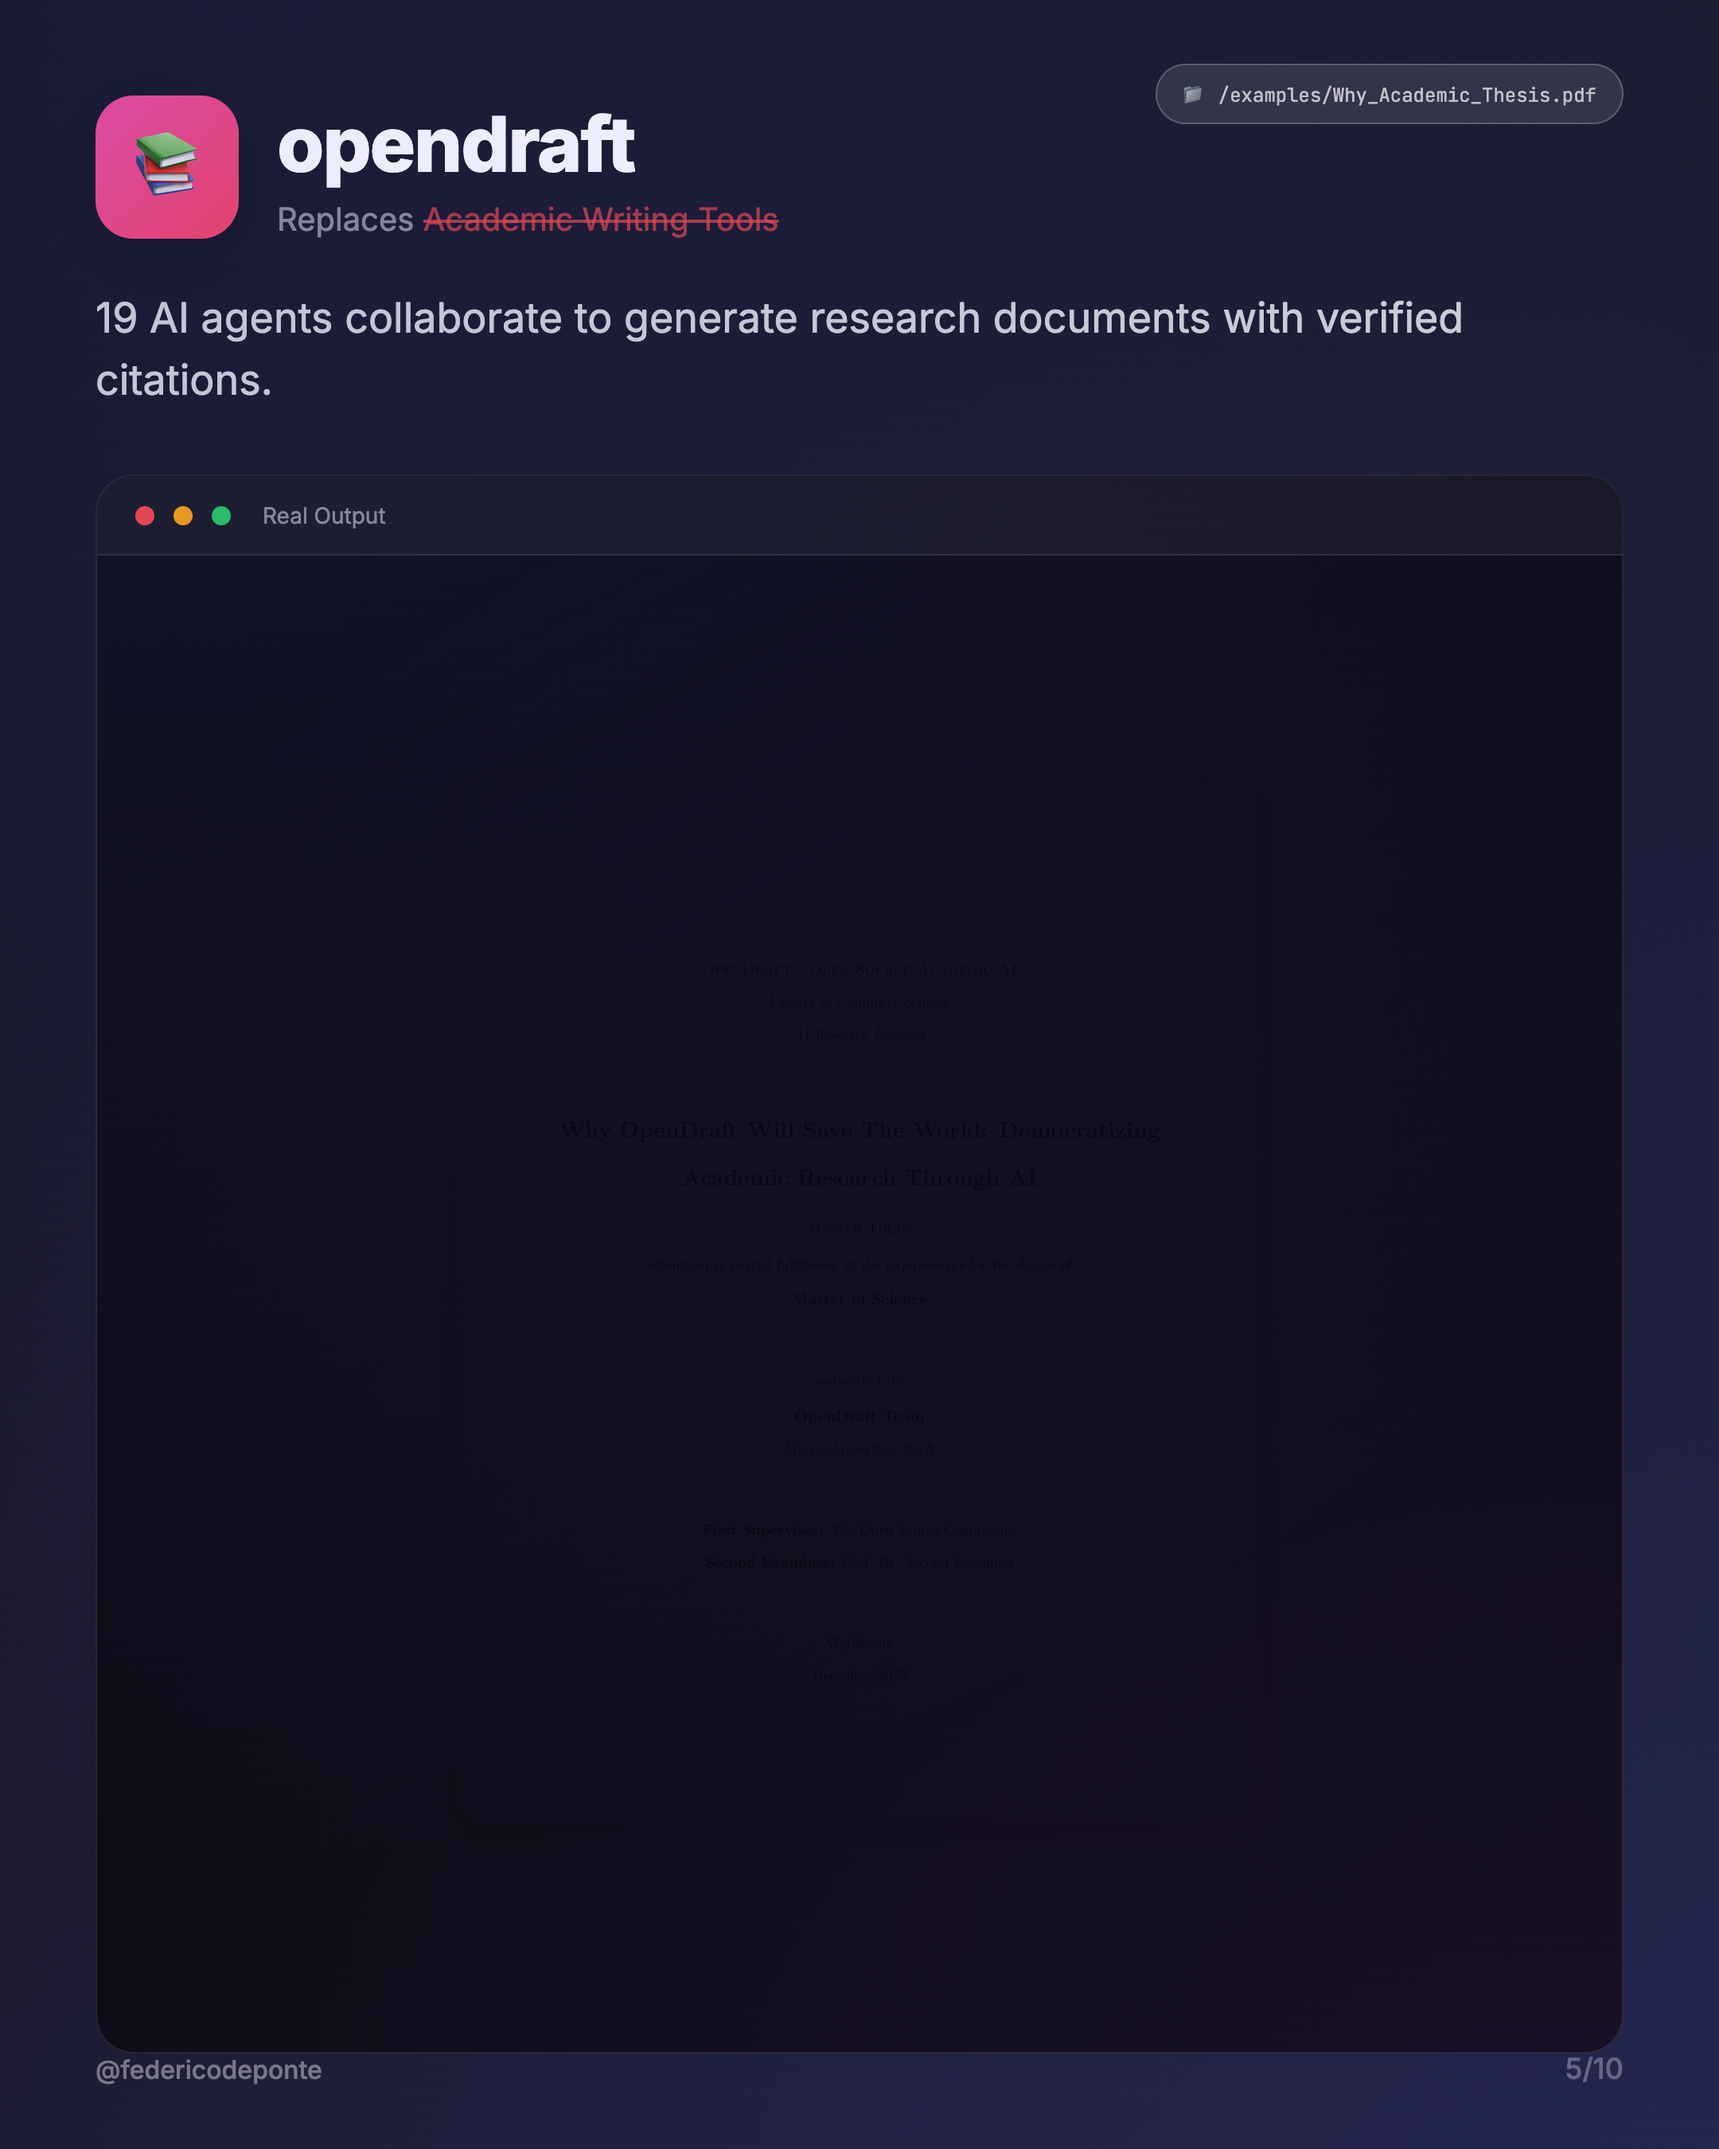
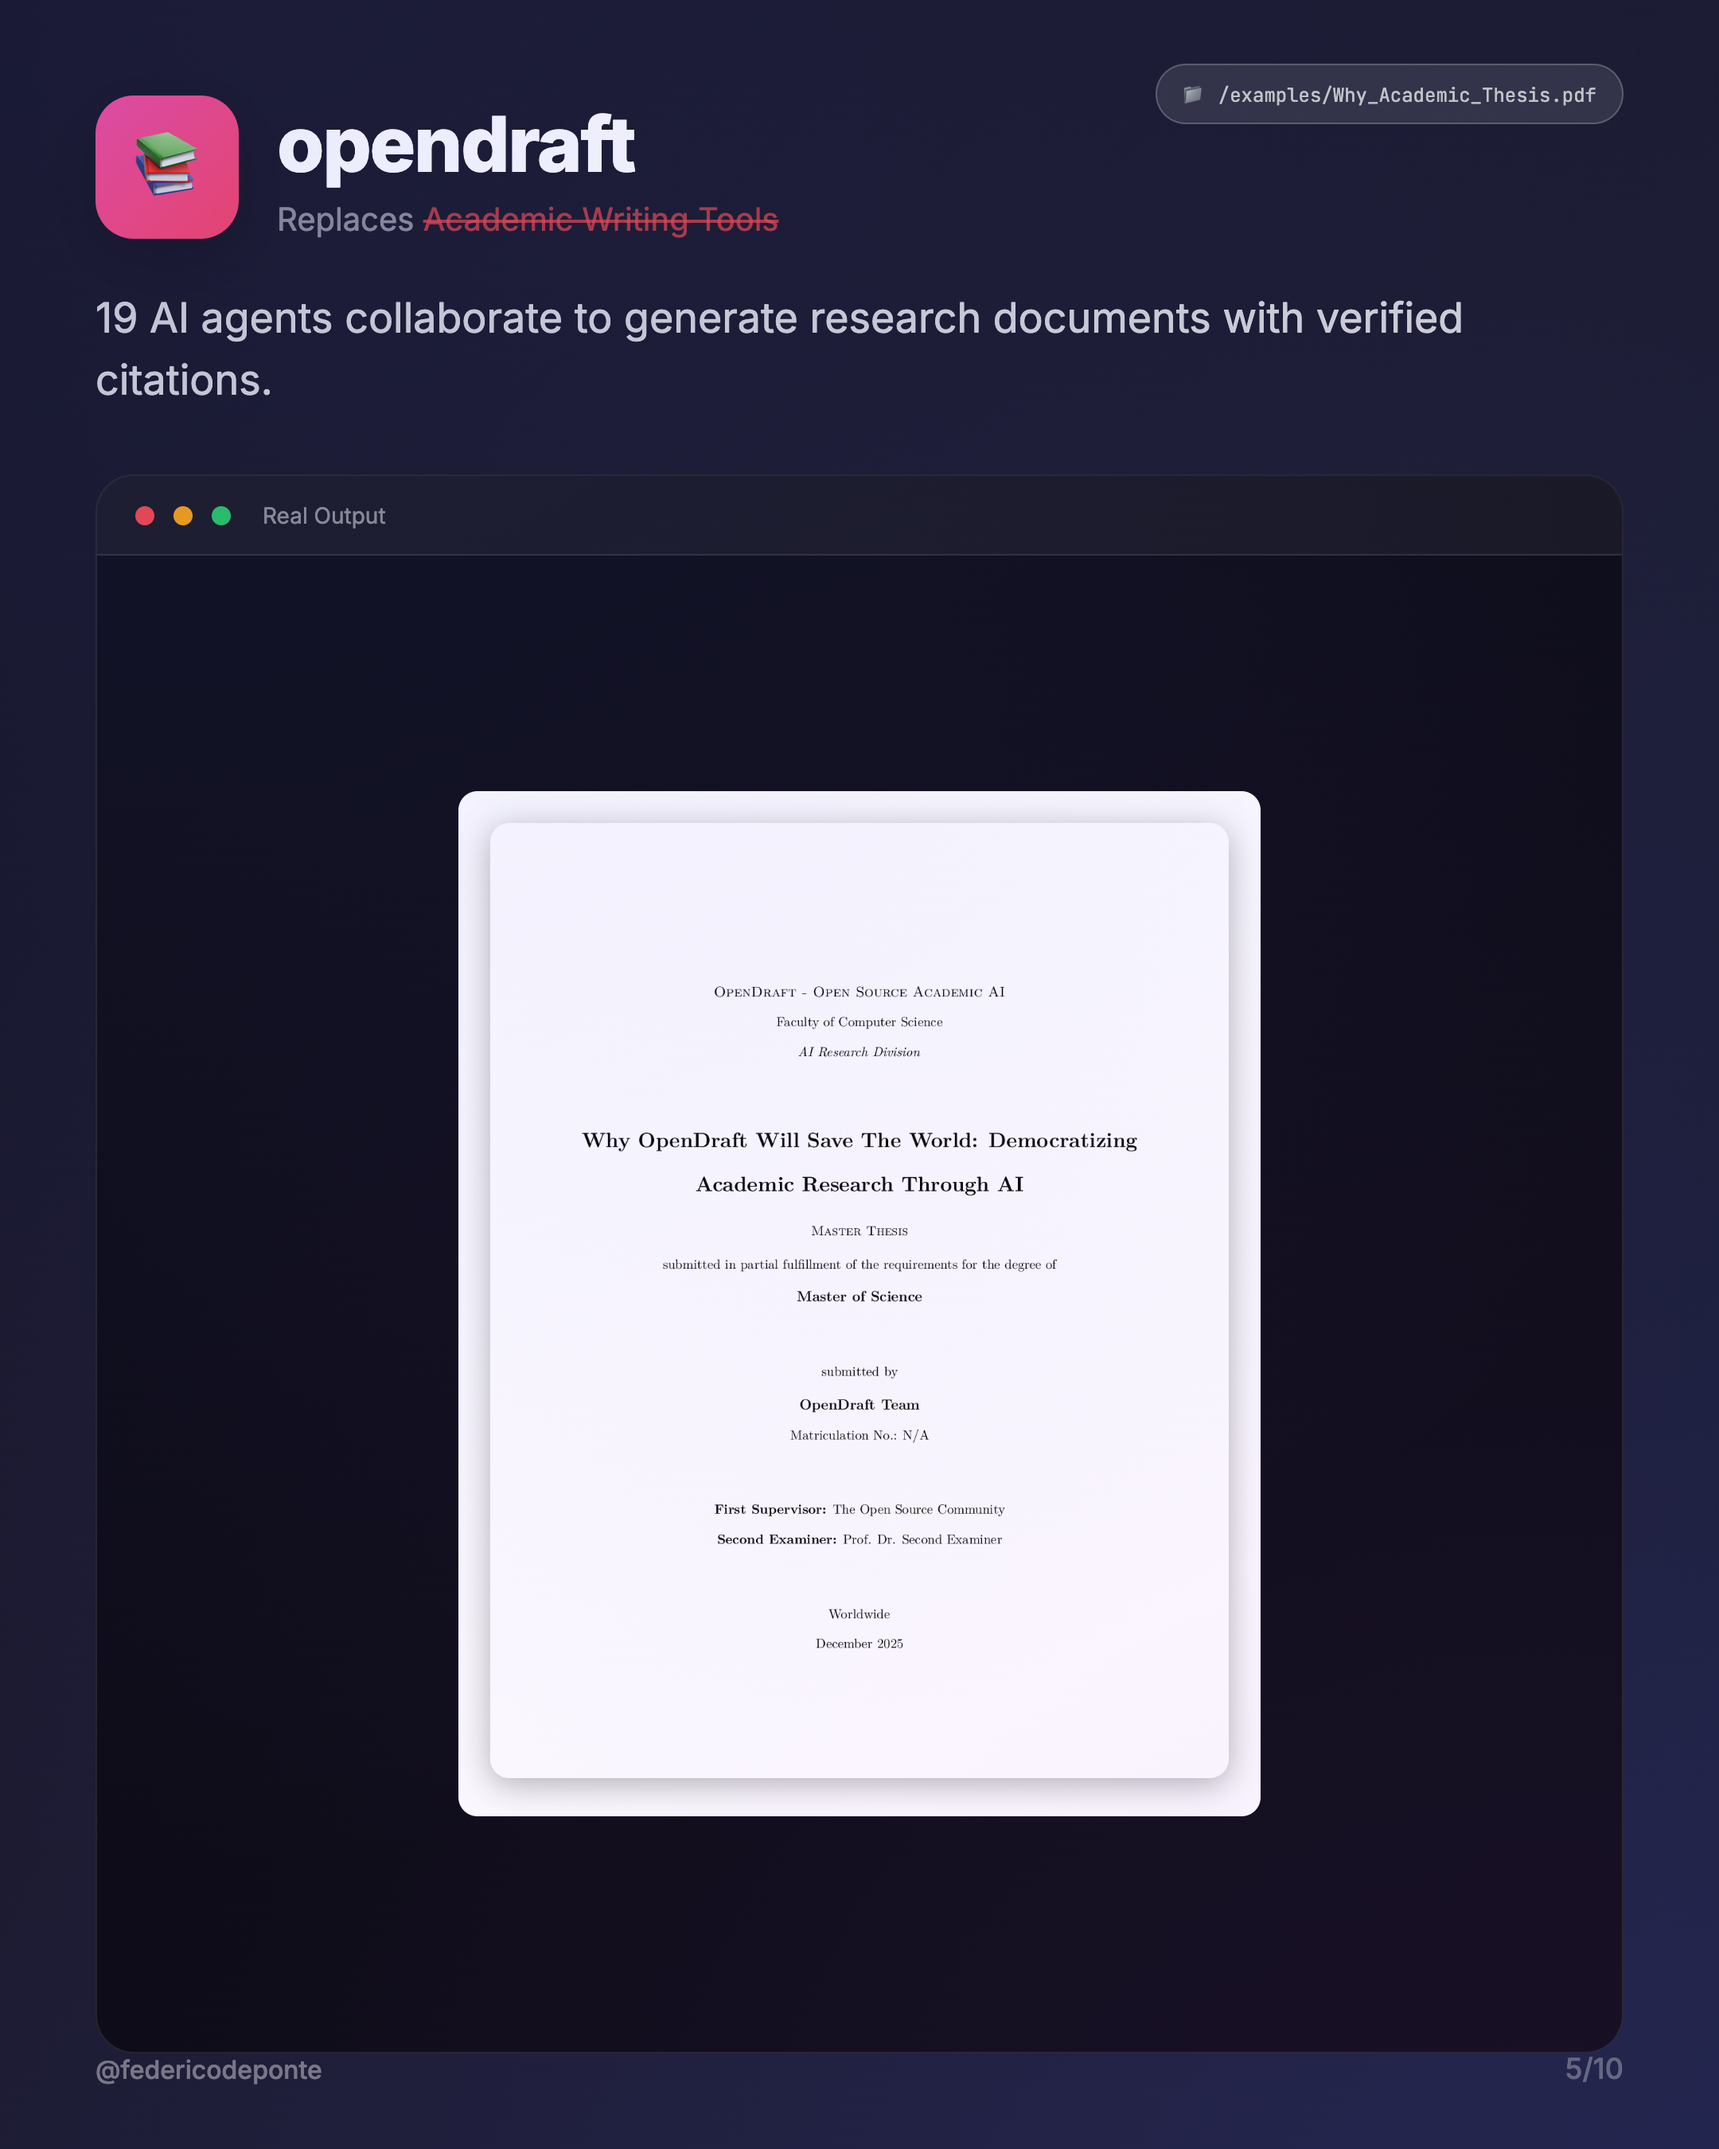
Fix slide 5: add white background for thesis readability

Changed region(s): [[0.2481, 0.3422, 0.7444, 0.8711]]

diff --git a/slides.html b/slides.html
@@ -573,7 +573,7 @@
                 <span class="title">Real Output</span>
             </div>
             <div class="example-content">
-                <img src="visuals/opendraft.png" alt="opendraft output">
+                <div style="background: white; padding: 20px; border-radius: 12px;"><img src="visuals/opendraft.png" alt="opendraft output" style="max-height: 600px;"></div>
             </div>
         </div>
 
